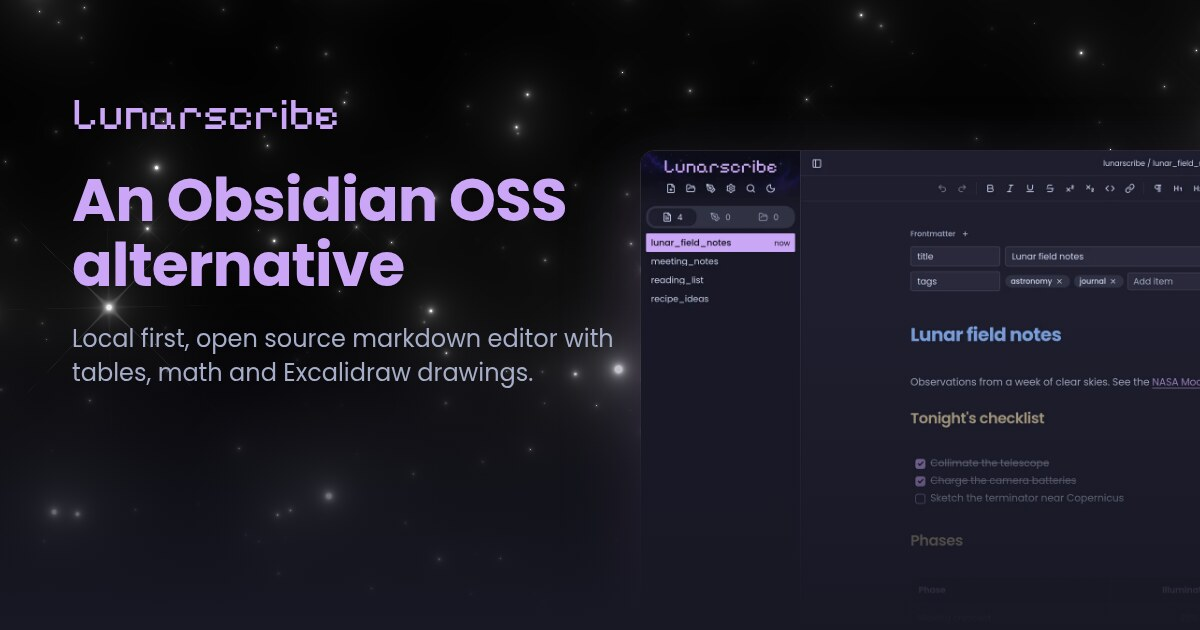
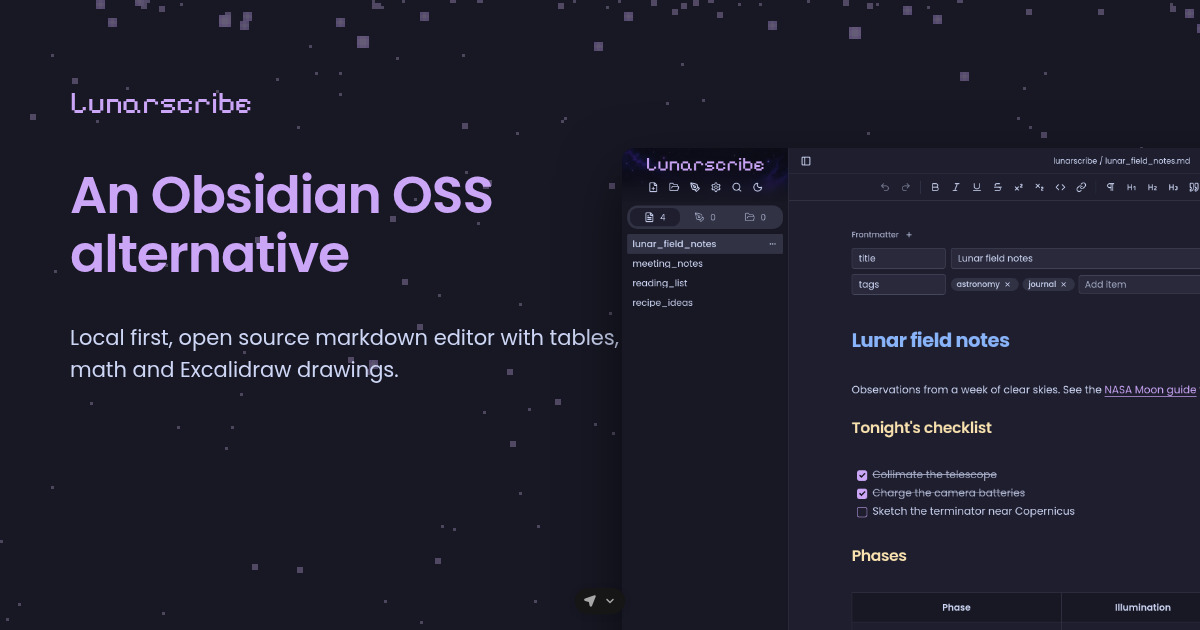
Center the settings panes
Settings sections sat hard against the left edge of the space beside the
sidebar, which left the right half of the dialog empty. A shared
SettingsPane now centers each section's content in a max-w-3xl column.

Desktop and web settings panes use it, so the per-block width caps they
carried are gone. The syncing screenshot and the social preview image are
retaken to match.

diff --git a/apps/desktop/src/components/settings-dialog/appearance-pane.tsx b/apps/desktop/src/components/settings-dialog/appearance-pane.tsx
@@ -1,4 +1,5 @@
 import { HighlightColorPicker } from "@lunarscribe/components/settings-dialog/highlight-color-picker";
+import { SettingsPane } from "@lunarscribe/components/settings-dialog/settings-pane";
 import {
   COLOR_THEMES,
   findColorTheme,
@@ -202,7 +203,7 @@ export function AppearancePane() {
   );
 
   return (
-    <div className="flex h-full flex-col gap-6 overflow-auto p-6">
+    <SettingsPane>
       <header className="flex flex-col gap-1">
         <h2 className="text-base font-medium">Appearances</h2>
         <p className="text-muted-foreground text-sm">
@@ -210,7 +211,7 @@ export function AppearancePane() {
           own.
         </p>
       </header>
-      <div className="flex max-w-lg flex-col gap-4">
+      <div className="flex flex-col gap-4">
         <ColorThemeSelect
           theme="light"
           colorTheme={lightColorTheme}
@@ -232,7 +233,7 @@ export function AppearancePane() {
         Reset to defaults
       </Button>
       <FontSettings />
-      <div className="flex max-w-lg flex-col gap-4">
+      <div className="flex flex-col gap-4">
         <header className="flex flex-col gap-1">
           <h3 className="text-base font-medium">Misc</h3>
           <p className="text-muted-foreground text-sm text-pretty">
@@ -243,6 +244,6 @@ export function AppearancePane() {
         <HighlightColorSetting />
         <EditorToolbarSwitch />
       </div>
-    </div>
+    </SettingsPane>
   );
 }

diff --git a/apps/web/src/app/app/settings-dialog/appearance-pane.tsx b/apps/web/src/app/app/settings-dialog/appearance-pane.tsx
@@ -1,4 +1,5 @@
 import { HighlightColorPicker } from "@lunarscribe/components/settings-dialog/highlight-color-picker";
+import { SettingsPane } from "@lunarscribe/components/settings-dialog/settings-pane";
 import {
   COLOR_THEMES,
   findColorTheme,
@@ -161,7 +162,7 @@ export function AppearancePane() {
   );
 
   return (
-    <div className="flex h-full flex-col gap-6 overflow-auto p-6">
+    <SettingsPane>
       <header className="flex flex-col gap-1">
         <h2 className="text-base font-medium">Appearances</h2>
         <p className="text-muted-foreground text-sm">
@@ -169,7 +170,7 @@ export function AppearancePane() {
           own.
         </p>
       </header>
-      <div className="flex max-w-lg flex-col gap-4">
+      <div className="flex flex-col gap-4">
         <ColorThemeSelect
           theme="light"
           colorTheme={lightColorTheme}
@@ -191,7 +192,7 @@ export function AppearancePane() {
         Reset to defaults
       </Button>
       <FontSettings />
-      <div className="flex max-w-lg flex-col gap-4">
+      <div className="flex flex-col gap-4">
         <header className="flex flex-col gap-1">
           <h3 className="text-base font-medium">Misc</h3>
           <p className="text-muted-foreground text-sm text-pretty">
@@ -201,6 +202,6 @@ export function AppearancePane() {
         <HighlightColorSetting />
         <EditorToolbarSwitch />
       </div>
-    </div>
+    </SettingsPane>
   );
 }

diff --git a/apps/desktop/src/components/settings-dialog/syncing-pane.tsx b/apps/desktop/src/components/settings-dialog/syncing-pane.tsx
@@ -1,5 +1,6 @@
 import { ConfirmationDialog } from "@lunarscribe/components/confirmation-dialog/confirmation-dialog";
 import { reportFileError } from "@lunarscribe/components/lib/file-feedback";
+import { SettingsPane } from "@lunarscribe/components/settings-dialog/settings-pane";
 import {
   Alert,
   AlertDescription,
@@ -150,7 +151,7 @@ export function SyncingPane() {
   }
 
   return (
-    <div className="flex h-full flex-col gap-6 overflow-auto p-6">
+    <SettingsPane>
       <header className="flex flex-col gap-1">
         <h2 className="text-base font-medium">Syncing</h2>
         <p className="text-muted-foreground text-sm text-pretty">
@@ -158,7 +159,7 @@ export function SyncingPane() {
           your devices. Lunarscribe syncs every five minutes while it is open.
         </p>
       </header>
-      <div className="flex max-w-lg flex-col gap-4">
+      <div className="flex flex-col gap-4">
         <div className="flex items-center justify-between gap-6">
           <Label htmlFor="sync-provider">Provider</Label>
           <Select<SyncProvider>
@@ -289,6 +290,6 @@ export function SyncingPane() {
           </p>
         )}
       </div>
-    </div>
+    </SettingsPane>
   );
 }

diff --git a/apps/desktop/src/components/settings-dialog/about-pane.tsx b/apps/desktop/src/components/settings-dialog/about-pane.tsx
@@ -1,3 +1,4 @@
+import { SettingsPane } from "@lunarscribe/components/settings-dialog/settings-pane";
 import { Button } from "@lunarscribe/components/ui/button";
 import { Spinner } from "@lunarscribe/components/ui/spinner";
 import { Download, RefreshCw, RotateCw } from "lucide-react";
@@ -68,7 +69,7 @@ export function AboutPane() {
   }, []);
 
   return (
-    <div className="flex h-full flex-col gap-6 overflow-auto p-6">
+    <SettingsPane>
       <header className="flex flex-col gap-1">
         <h2 className="text-base font-medium">About</h2>
         <p className="text-muted-foreground text-sm text-pretty">
@@ -108,7 +109,7 @@ export function AboutPane() {
           </Button>
         )}
       </div>
-      <dl className="flex max-w-2xl flex-col gap-2 text-sm">
+      <dl className="flex flex-col gap-2 text-sm">
         {INFO_ROWS.map((row) => (
           <div key={row.key} className="flex gap-6">
             <dt className="w-40 shrink-0">{row.label}</dt>
@@ -118,6 +119,6 @@ export function AboutPane() {
           </div>
         ))}
       </dl>
-    </div>
+    </SettingsPane>
   );
 }

diff --git a/apps/web/src/app/app/settings-dialog/syncing-pane.tsx b/apps/web/src/app/app/settings-dialog/syncing-pane.tsx
@@ -1,4 +1,5 @@
 import { reportFileError } from "@lunarscribe/components/lib/file-feedback";
+import { SettingsPane } from "@lunarscribe/components/settings-dialog/settings-pane";
 import {
   Alert,
   AlertDescription,
@@ -146,7 +147,7 @@ export function SyncingPane() {
   }
 
   return (
-    <div className="flex h-full flex-col gap-6 overflow-auto p-6">
+    <SettingsPane>
       <header className="flex flex-col gap-1">
         <h2 className="text-base font-medium">Syncing</h2>
         <p className="text-muted-foreground text-sm text-pretty">
@@ -155,7 +156,7 @@ export function SyncingPane() {
           open.
         </p>
       </header>
-      <div className="flex max-w-lg flex-col gap-4">
+      <div className="flex flex-col gap-4">
         <div className="flex items-center justify-between gap-6">
           <Label htmlFor="sync-provider">Provider</Label>
           <Select<SyncProvider>
@@ -262,6 +263,6 @@ export function SyncingPane() {
           </p>
         )}
       </div>
-    </div>
+    </SettingsPane>
   );
 }

diff --git a/packages/components/src/components/settings-dialog/settings-pane.tsx b/packages/components/src/components/settings-dialog/settings-pane.tsx
@@ -1,0 +1,15 @@
+import type { ReactNode } from "react";
+
+/**
+ * Frame for one settings section: its content keeps a single readable width and
+ * sits centered in the space beside the settings sidebar.
+ */
+export function SettingsPane({ children }: { children: ReactNode }) {
+  return (
+    <div className="h-full overflow-auto">
+      <div className="mx-auto flex w-full max-w-3xl flex-col gap-6 p-6">
+        {children}
+      </div>
+    </div>
+  );
+}

diff --git a/apps/web/src/app/app/settings-dialog/font-settings.tsx b/apps/web/src/app/app/settings-dialog/font-settings.tsx
@@ -78,7 +78,7 @@ export function FontSettings() {
   const setCodeFont = useAppearanceStore((state) => state.setCodeFont);
 
   return (
-    <div className="flex max-w-lg flex-col gap-4">
+    <div className="flex flex-col gap-4">
       <header className="flex flex-col gap-1">
         <h3 className="text-base font-medium">Fonts</h3>
         <p className="text-muted-foreground text-sm text-pretty">

diff --git a/apps/desktop/src/components/settings-dialog/font-settings.tsx b/apps/desktop/src/components/settings-dialog/font-settings.tsx
@@ -124,7 +124,7 @@ export function FontSettings() {
   }, [attempt]);
 
   return (
-    <div className="flex max-w-lg flex-col gap-4">
+    <div className="flex flex-col gap-4">
       <header className="flex flex-col gap-1">
         <h3 className="text-base font-medium">Fonts</h3>
         <p className="text-muted-foreground text-sm text-pretty">
